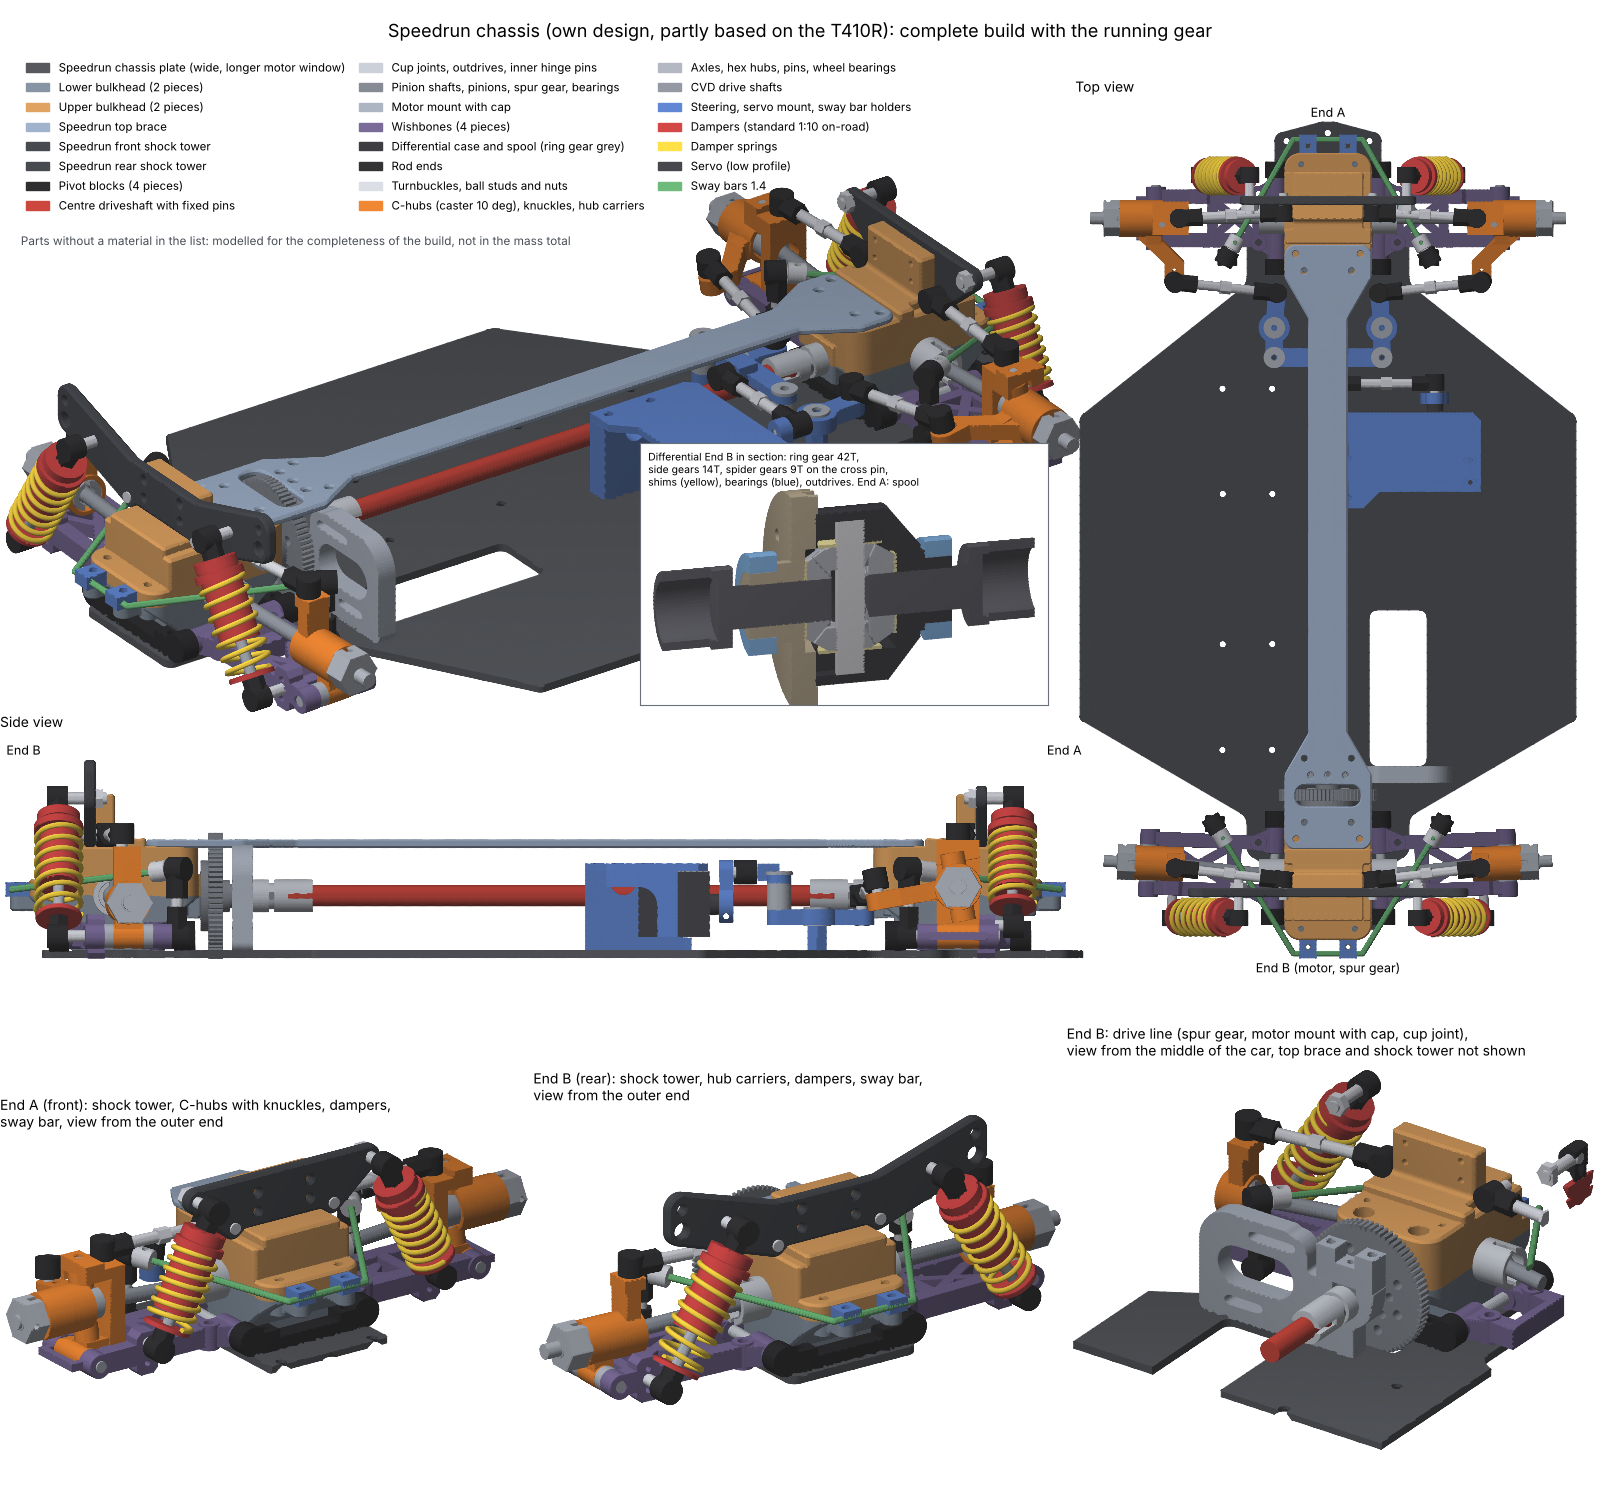
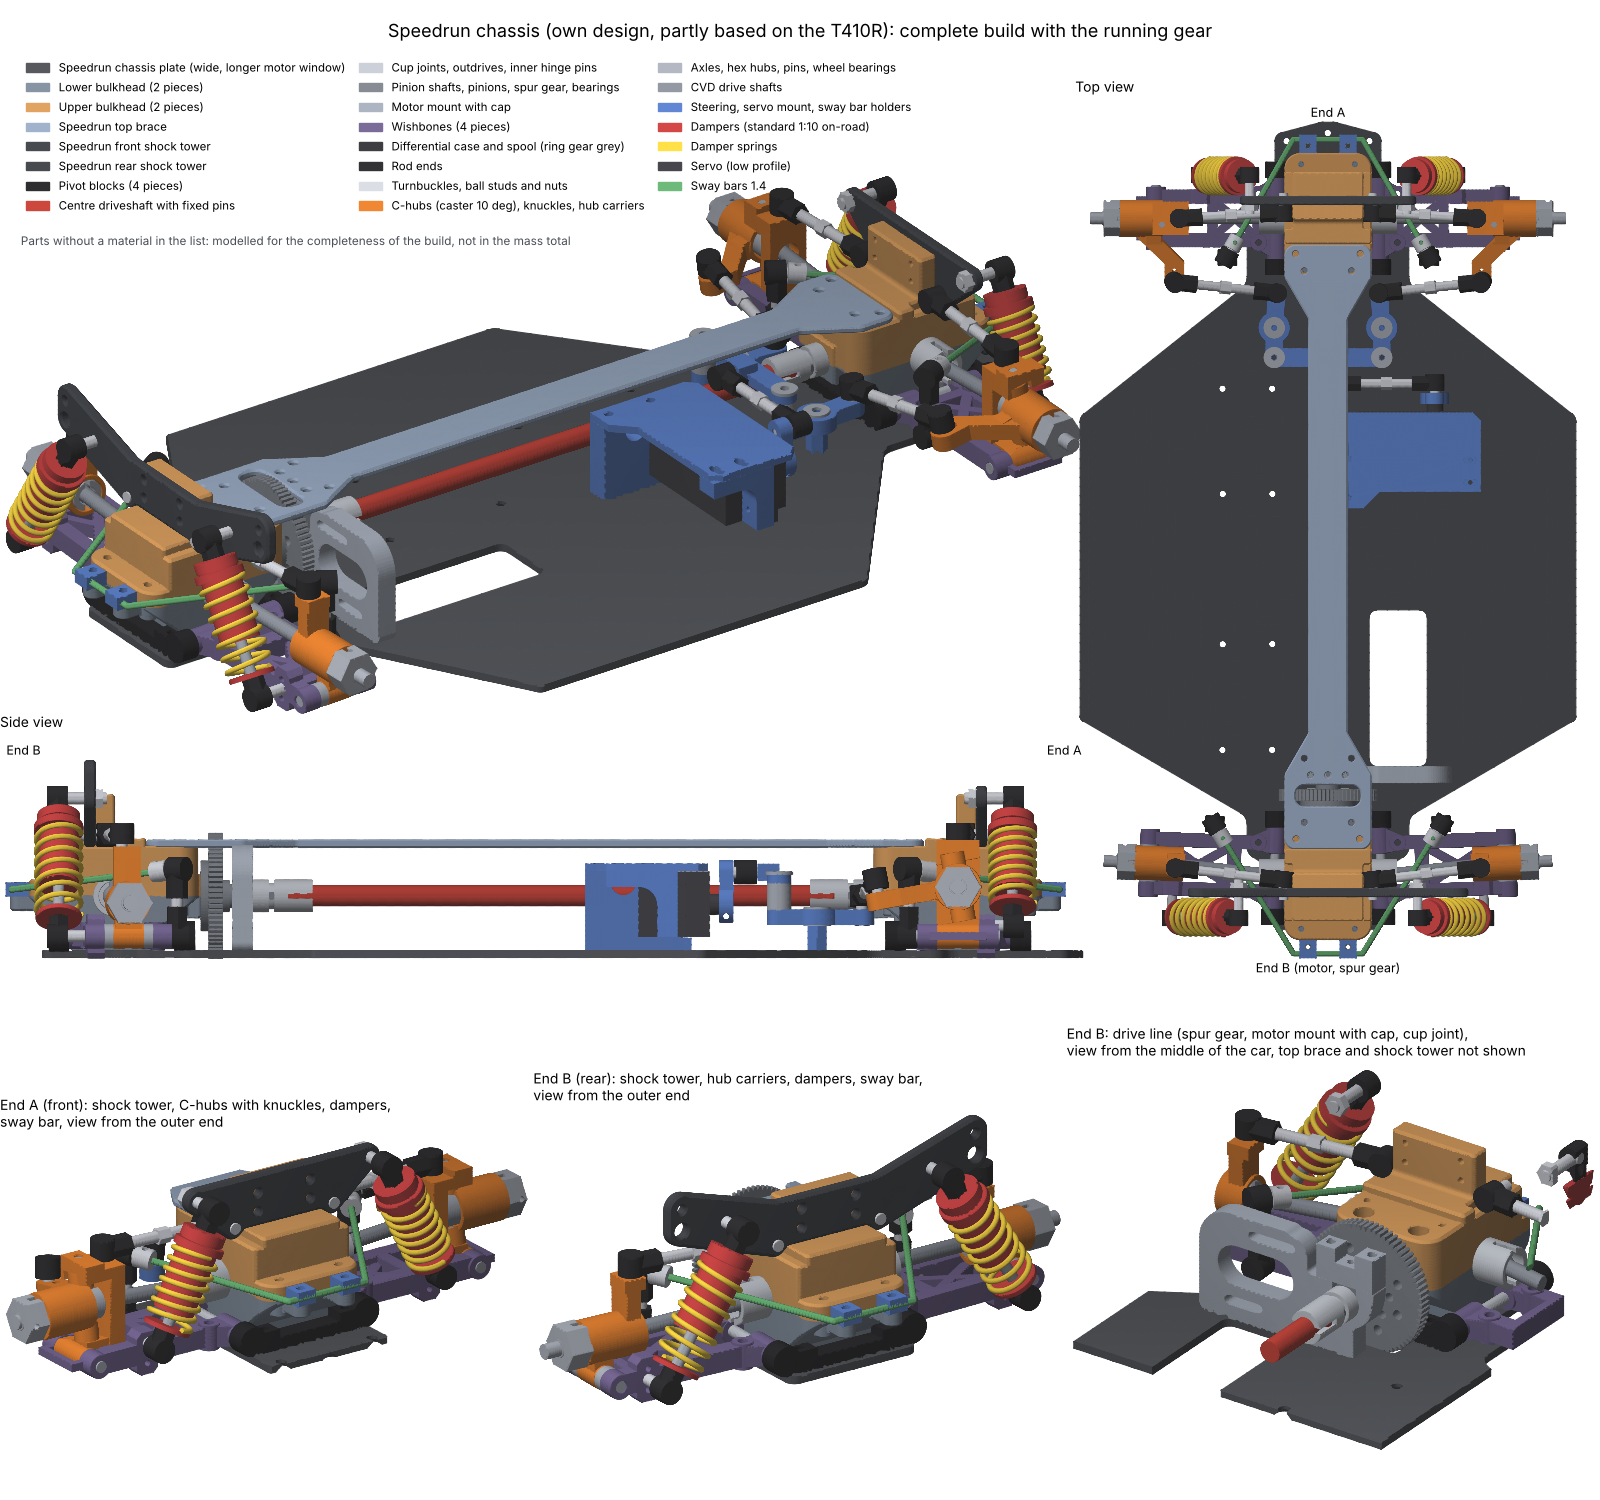
Assembly picture without the differential inset
- The section of the differential at End B is removed from the overall
  assembly picture; descriptions in both readmes adjusted (the design of
  the differential stays in the differential drawing)

Claude-Session: https://claude.ai/code/session_012MJxxFKjiSK74mxYNyHG3r

Changed region(s): [[0.375, 0.276, 0.6562, 0.4907]]

diff --git a/scripts/cad/generate_speedrun_assembly.py b/scripts/cad/generate_speedrun_assembly.py
@@ -213,37 +213,6 @@ def image(parts, path):
         ax.set_aspect("equal")
         ax.axis("off")
         ax.set_title(title, fontsize=10, loc="left")
-    # picture in picture: section through the differential at End B with the pinion
-    yd = BULKHEAD_Y["rear"] + load_params(LOWER)["diff_axis_y"]
-    keep = cq.Solid.makeBox(80, 40, 80, cq.Vector(-40, yd - 40, -20))        # half on the side away from the pinion
-    tris_d, cols_d = [], []
-    inset_cols = (("bearing", (0.45, 0.65, 0.85)), ("shim", (0.85, 0.8, 0.55)), ("pin", (0.8, 0.8, 0.82)),
-                  ("outdrive", (0.3, 0.3, 0.33)), ("side gear", (0.62, 0.63, 0.66)), ("spider gear", (0.62, 0.63, 0.66)),
-                  ("ring gear", (0.66, 0.6, 0.5)), ("case", (0.17, 0.17, 0.19)))      # first match counts
-    for name, key, s in parts:
-        if not ("End B" in name and (name.startswith("diff") or name.startswith("ring gear"))):
-            continue
-        s = s.intersect(keep)
-        if s.Volume() < 1e-6:
-            continue
-        t = subdivide(tess(s, 0.015), 0.7)
-        tris_d.append(t)
-        col = next((c for w, c in inset_cols if w in name), (0.62, 0.63, 0.66))   # inner gears: steel
-        cols_d.append(np.tile(col, (len(t), 1)))
-    ax = fig.add_axes([0.4, 0.53, 0.255, 0.175])
-    lo, hi = draw_mesh(ax, np.concatenate(tris_d), iso_basis(75, 20), tri_colors=np.concatenate(cols_d), depth_cue=0.2)
-    ax.set_xlim(lo[0] - 2, hi[0] + 2)
-    ax.set_ylim(lo[1] - 2, hi[1] + 9)
-    ax.set_aspect("equal", adjustable="datalim")
-    ax.set_facecolor("white")
-    ax.set_xticks([])
-    ax.set_yticks([])
-    for sp in ax.spines.values():
-        sp.set_color("#6b7078")
-        sp.set_linewidth(0.8)
-    ax.text(0.02, 0.97, "Differential End B in section: ring gear 42T,\nside gears 14T, spider gears 9T on the "
-            "cross pin,\nshims (yellow), bearings (blue), outdrives. End A: spool", transform=ax.transAxes, va="top",
-            fontsize=7.5)
     handles = [Patch(color=np.clip(np.asarray(COLORS[k]) + 0.08, 0, 1), label=MATERIALS[k][0]) for k in COLORS]
     fig.legend(handles=handles, loc="upper left", bbox_to_anchor=(0.01, top + 0.95 * (1 - top)), fontsize=8.3,
                frameon=False, ncol=3, columnspacing=1.2)

diff --git a/readme.md b/readme.md
@@ -96,7 +96,7 @@ Further own parts (own design, partly based on the T410R, not in the mass total)
 | Dampers (standard 1:10 on-road, purchased) | 4 | $\color{red}\times$ Completely unqualified | Assembly only |
 
 * Status: $\color{green}\checkmark$ verified (test print or on the car), $\color{gold}\blacktriangle$ measures qualified, no 3D print verification, $\color{red}\times$ completely unqualified. All parts of the speedrun design are verified. Of the further own parts, the pivot blocks and the motor mount are verified with a 3D printed prototype (the motor mount with cosmetic changes after the print: smooth faces, continuous contour); the centre driveshaft, the drive lines (pinion shafts, pinions, spur gear), the differentials, the wishbones and the steering knuckles are qualified by measurements (caliper and photos of the owner); the running gear and the other parts are not qualified. The parts marked red are first designs: they still need a lot of refinement (dimensions, strength, fit and function on the car) and are not ready for manufacturing. The bulkheads have radii and edge chamfers on the outer side for CNC milling; the inside of the parts is the verified geometry (see [edges of the outer shape](cad/readme.md#design-of-the-lower-bulkhead)). The original shock tower plates do not fit the speedrun upper bulkhead; the [speedrun shock towers](cad/readme.md#speedrun-shock-towers) are designed for it. All holes of the towers are at the positions of the original towers; the shock tower wall of the upper bulkhead is narrowed so that the rod ends of the camber links have space beside it. The status of each part, the open points and all files are described in the [CAD readme](cad/readme.md#speedrun-chassis).
-* The legend lists the colours of the speedrun parts and of the further own parts. The inset at the right of the 3D view shows the differential at End B in section with the pinion (the design of the differential: [CAD readme](cad/readme.md#differentials)). The bottom row shows close-ups of End A and End B from the outer end and of the drive line at End B (spur gear, motor mount with cap, cup joint) from the middle of the car, without the top brace and the shock tower. The design of the running gear (caster, steering, Ackermann): [CAD readme](cad/readme.md#running-gear).
+* The legend lists the colours of the speedrun parts and of the further own parts. The design of the differential: [CAD readme](cad/readme.md#differentials). The bottom row shows close-ups of End A and End B from the outer end and of the drive line at End B (spur gear, motor mount with cap, cup joint) from the middle of the car, without the top brace and the shock tower. The design of the running gear (caster, steering, Ackermann): [CAD readme](cad/readme.md#running-gear).
 * The assembly is available as a STEP file (`cad/assembly/speedrun_chassis_T410R.step`).
 
 ## Repository structure

diff --git a/cad/readme.md b/cad/readme.md
@@ -120,7 +120,7 @@ Status: $\color{green}\checkmark$ verified (test print or on the car), $\color{g
 * The further own parts are not in the mass total (see [further own parts](#further-own-parts)).
 * The interference check of all pairs of parts gives 0 mm³, except 0.82 mm³ between the lower bulkhead at End B and the long pivot block (see [pivot blocks](#pivot-blocks)) and 2.16 mm³ between the lower bulkhead at End A and each front wishbone (inner lugs 0.14 mm into the side face, see [wishbones](#wishbones)).
 * The assembly file and the image are generated with the script `generate_speedrun_assembly.py` (see [scripts](#scripts)) from the files of the parts.
-* The image shows an overall view with an inset of the differential at End B in section (with the pinion), a side view, a top view and three close-ups:
+* The image shows an overall view, a side view, a top view and three close-ups:
   * both ends with the bulkheads, the shock tower, the corners of the running gear, the dampers and the sway bar, seen from the outer end;
   * the drive line at End B (spur gear, motor mount with cap, cup joint), seen from the middle of the car, without the top brace and the shock tower.
 
